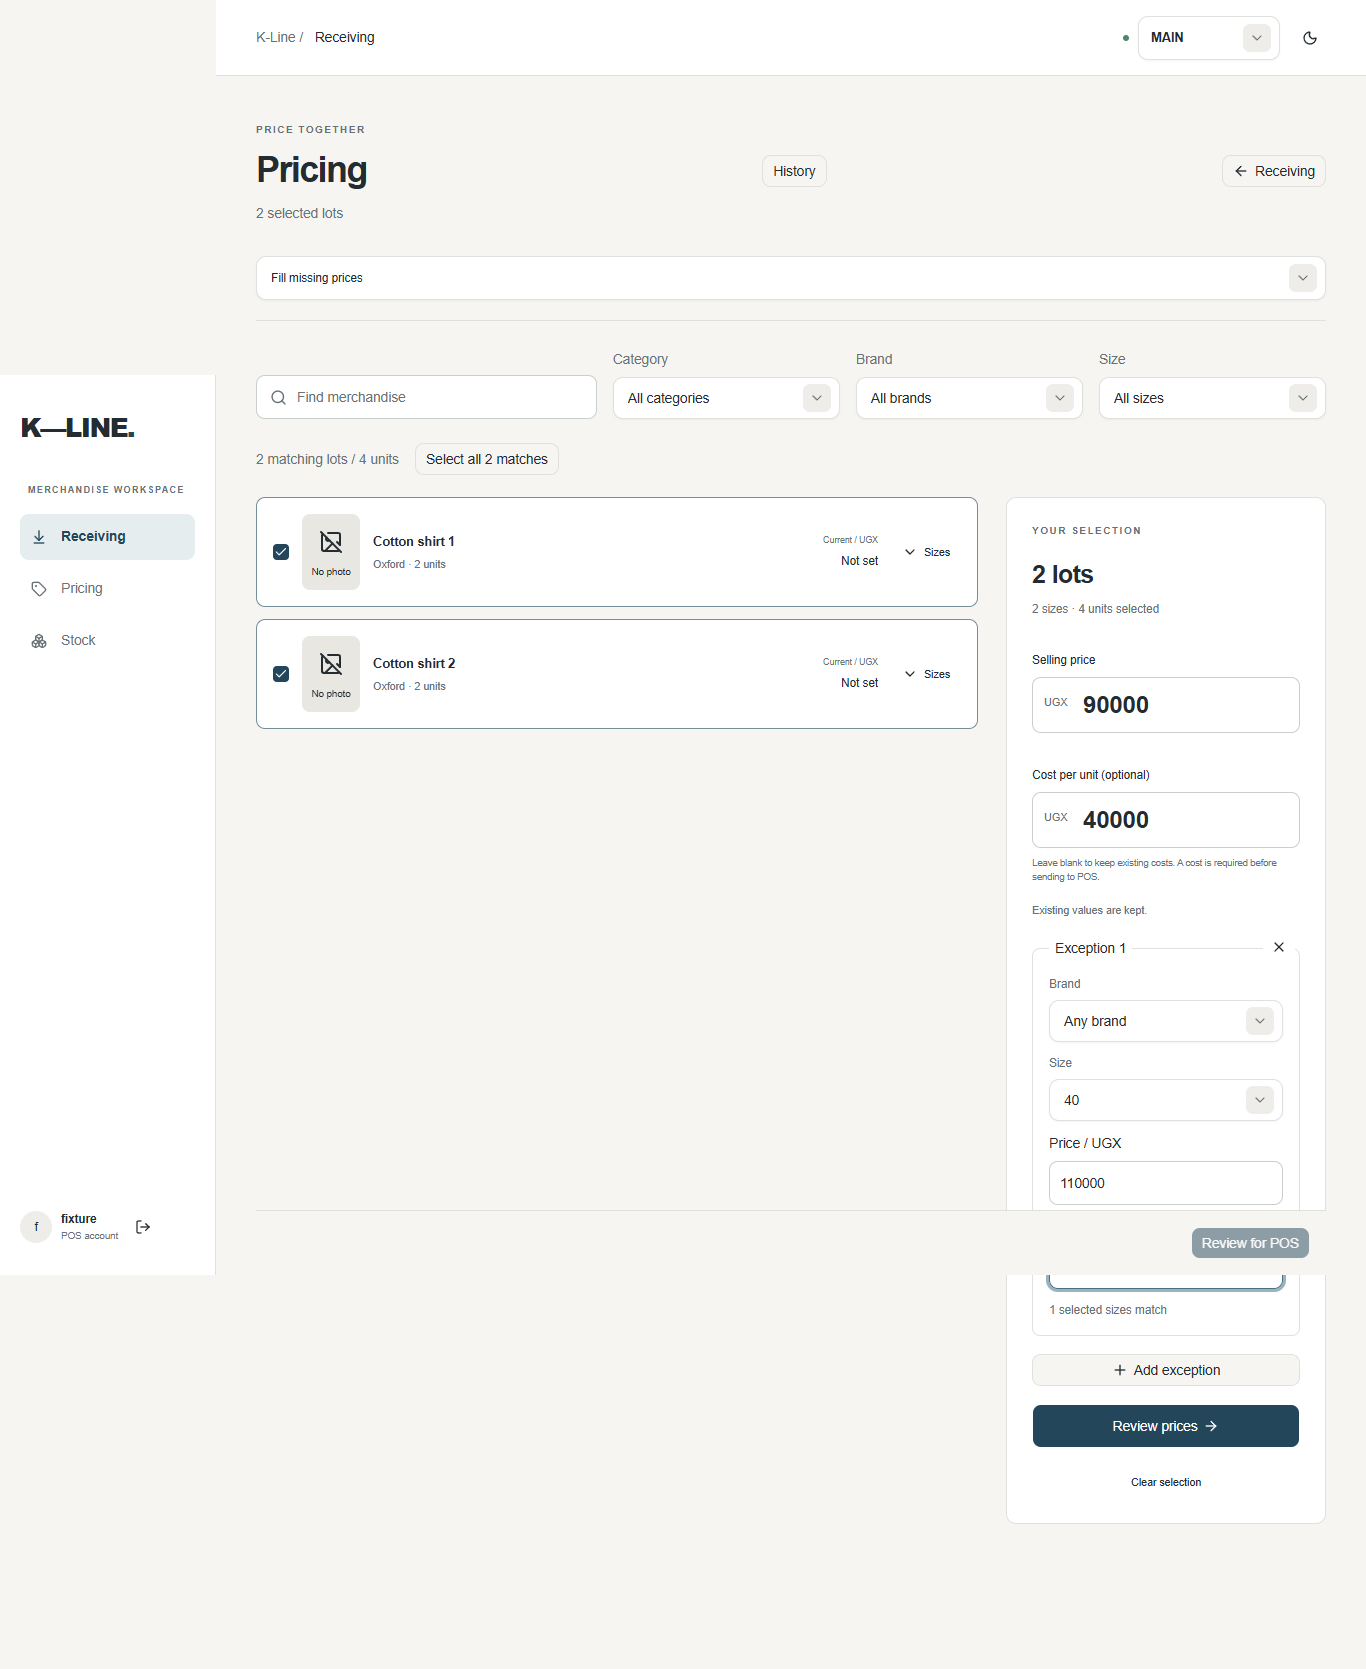
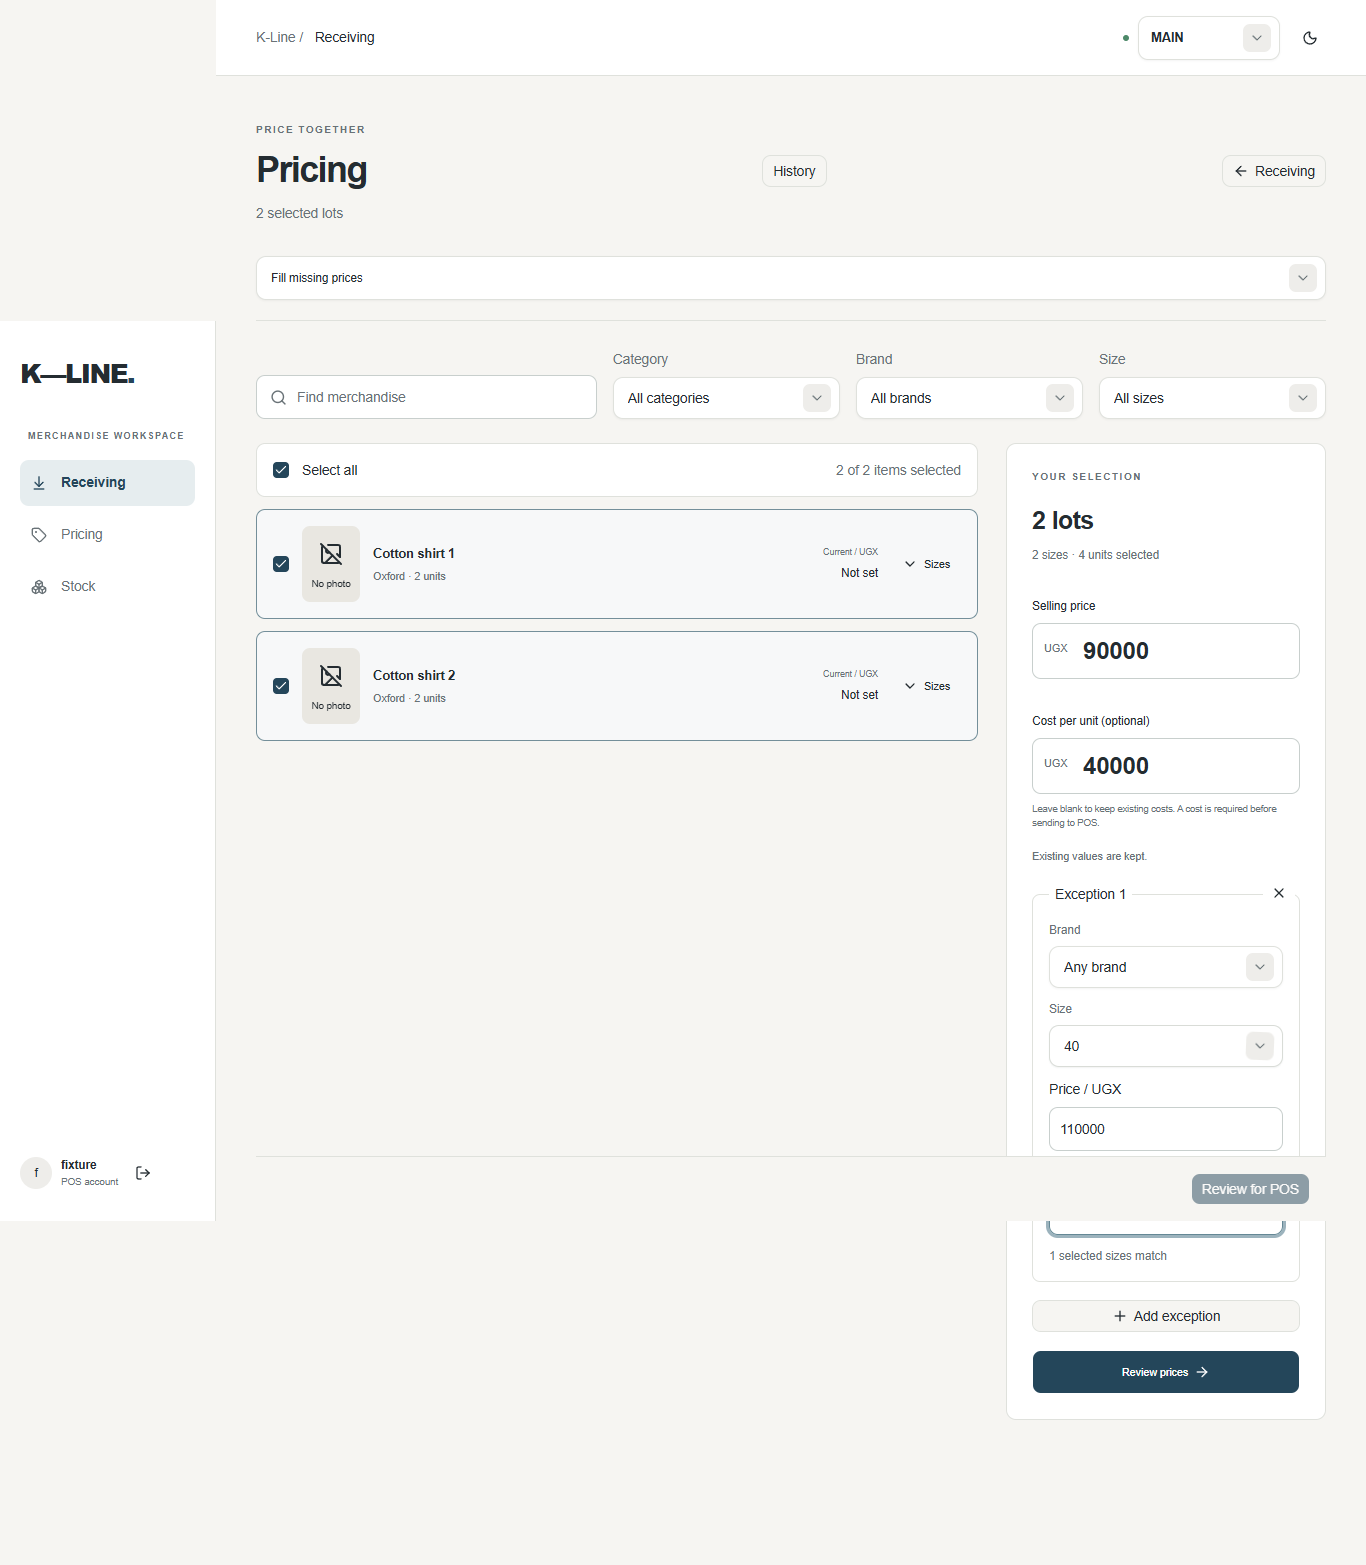
Simplify pricing selection with a select-all checkbox

diff --git a/app/components/pricing.tsx b/app/components/pricing.tsx
@@ -150,6 +150,9 @@ export function Pricing({
     .filter((line) => selectedIds.has(line.id));
   const eligibleIds = (item: PriceItem) =>
     item.lines.filter((line) => eligibleCombinedLine(line)).map((line) => line.id);
+  const selectableIds = visible.flatMap(eligibleIds);
+  const allSelected = selectableIds.length > 0 && selectableIds.every((id) => selectedIds.has(id));
+  const partlySelected = !allSelected && selectableIds.some((id) => selectedIds.has(id));
   const categories = [
     ...new Map(
       items
@@ -329,31 +332,23 @@ export function Pricing({
           onChange={(size) => changeFilters({ size })}
         />
       </div>
-      <div className="toolbar pricing-group-selection">
-        <span className="muted">
-          {visible.length.toLocaleString()} matching lots /{' '}
-          {visible
-            .reduce(
-              (sum, item) =>
-                sum +
-                item.lines
-                  .filter((line) => eligibleCombinedLine(line))
-                  .reduce((units, line) => units + Number(line.quantity || 0), 0),
-              0,
-            )
-            .toLocaleString()}{' '}
-          units
-        </span>
-        <Button
-          variant="outline"
-          disabled={loading || !visible.length}
-          onClick={() => toggleLines(visible.flatMap(eligibleIds), true)}
-        >
-          Select all {visible.length} matches
-        </Button>
-      </div>
       <div className="pricing-layout pricing-groups-layout">
         <section className="pricing-merchandise">
+          {/* The shared checkbox replaces the old select-matches and remote clear buttons. */}
+          <div className="pricing-selection-bar">
+            <label className="pricing-select-all">
+              <Checkbox
+                checked={allSelected}
+                indeterminate={partlySelected}
+                disabled={loading || !selectableIds.length}
+                onCheckedChange={() => setSelected(allSelected ? [] : selectableIds)}
+              />
+              <span>Select all</span>
+            </label>
+            <span className="muted" role="status">
+              {selectedItems.length} of {visible.length} items selected
+            </span>
+          </div>
           {loading ? (
             <p role="status" className="loading">
               Loading merchandise…
@@ -376,7 +371,7 @@ export function Pricing({
                 const ids = eligibleIds(item),
                   checked = ids.length > 0 && ids.every((id) => selectedIds.has(id));
                 return (
-                  <article className={`price-item ${checked ? 'selected' : ''}`} key={item.id}>
+                  <article className={`price-item ${ids.some((id) => selectedIds.has(id)) ? 'selected' : ''}`} key={item.id}>
                     <div className="price-item-head">
                       <Checkbox
                         aria-label={`Select ${item.name || 'unnamed lot'}`}
@@ -622,11 +617,7 @@ export function Pricing({
             Review {field === 'retail' ? 'prices' : 'costs'}
             <ArrowRight size={16} />
           </Button>
-          {selected.length > 0 && (
-            <Button variant="ghost" onClick={() => setSelected([])}>
-              Clear selection
-            </Button>
-          )}
+          {/* Removal candidate replaced above: the separate Clear selection button. */}
         </aside>
       </div>
       {onReviewDelivery && (

diff --git a/app/app/globals.css b/app/app/globals.css
@@ -1156,6 +1156,25 @@ td small {
 .pricing-merchandise {
   min-width: 0;
 }
+.pricing-selection-bar {
+  display: flex;
+  align-items: center;
+  justify-content: space-between;
+  flex-wrap: wrap;
+  gap: 8px 16px;
+  margin-bottom: 12px;
+  padding: 4px 16px;
+  background: var(--card);
+  border: 1px solid var(--border);
+  border-radius: 9px;
+}
+.pricing-select-all {
+  display: flex;
+  align-items: center;
+  gap: 13px;
+  min-height: 44px;
+  cursor: pointer;
+}
 .price-list {
   display: grid;
   gap: 12px;
@@ -1168,6 +1187,7 @@ td small {
 }
 .price-item.selected {
   border-color: #748f9a;
+  background: color-mix(in srgb, var(--card) 94%, #748f9a);
 }
 .price-item-head {
   display: flex;
@@ -2035,7 +2055,8 @@ td small {
     grid-template-columns: 1fr;
   }
   .pricing-groups-layout > .price-editor {
-    order: -1;
+    /* Selection comes first on narrow screens; the previous form-first order buried the checkboxes. */
+    order: 0;
     position: static;
     grid-template-columns: 1fr;
   }

diff --git a/app/components/ui/checkbox.tsx b/app/components/ui/checkbox.tsx
@@ -3,8 +3,9 @@
 import { Checkbox as CheckboxPrimitive } from '@base-ui/react/checkbox';
 
 import { cn } from '@/lib/utils';
-import { CheckIcon } from 'lucide-react';
+import { CheckIcon, MinusIcon } from 'lucide-react';
 
+/** Render a dash for partial selection so group checkboxes remain distinct from fully selected ones. */
 function Checkbox({ className, ...props }: CheckboxPrimitive.Root.Props) {
   return (
     <CheckboxPrimitive.Root
@@ -19,7 +20,7 @@ function Checkbox({ className, ...props }: CheckboxPrimitive.Root.Props) {
         data-slot="checkbox-indicator"
         className="grid place-content-center text-current transition-none [&>svg]:size-3.5"
       >
-        <CheckIcon />
+        {props.indeterminate ? <MinusIcon /> : <CheckIcon />}
       </CheckboxPrimitive.Indicator>
     </CheckboxPrimitive.Root>
   );
